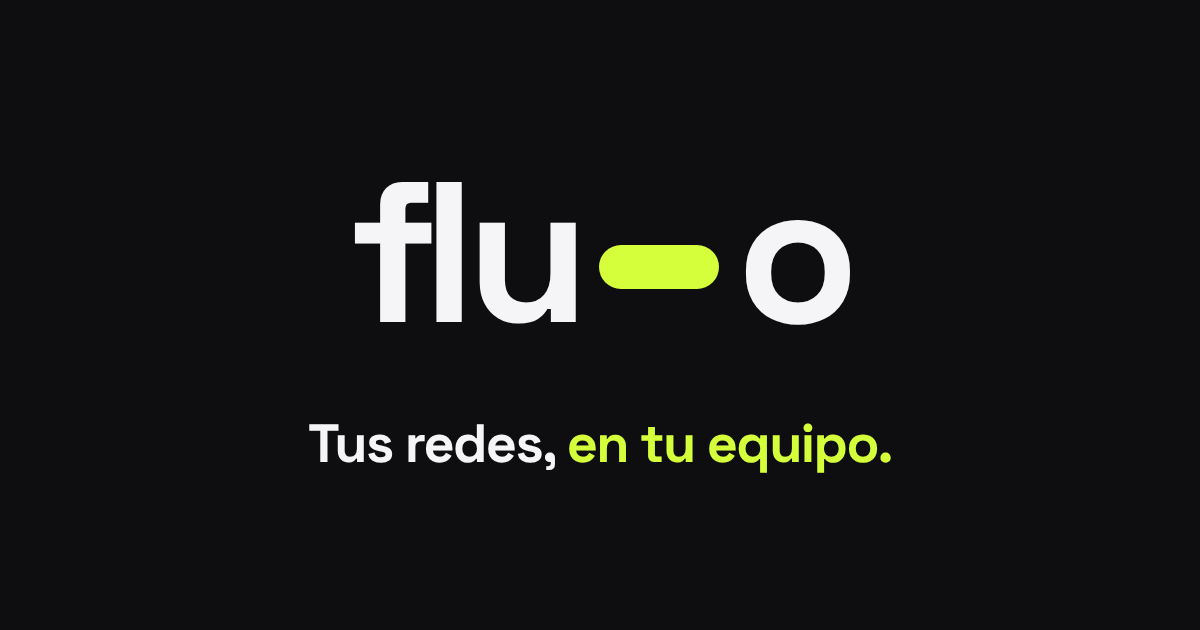
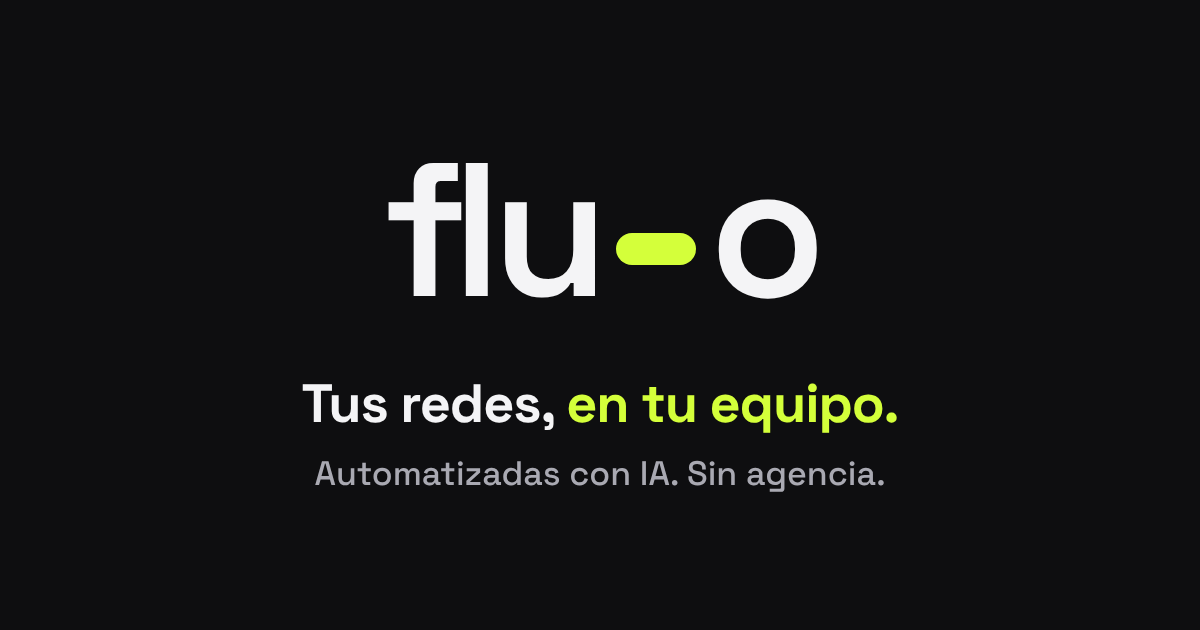
Web: enfoque en sistemas de IA (portada, caso de éxito antes/ahora, agencia vs flu–o, imagen al compartir)
Claude-Session: https://claude.ai/code/session_01GzdQ3RYke6gHzhkWUUZSNy

Changed region(s): [[0.2467, 0.6032, 0.74, 0.7841], [0.2775, 0.2413, 0.7092, 0.5127]]

diff --git a/index.html b/index.html
@@ -3,23 +3,23 @@
 <head>
 <meta charset="utf-8">
 <meta name="viewport" content="width=device-width, initial-scale=1">
-<title>flu–o · Tus redes, en tu equipo</title>
-<meta name="description" content="Implantamos un sistema de contenido con IA y formamos a tu equipo para que lleve vuestras redes sociales: Instagram, Facebook y LinkedIn. Sin agencias. Sin cuotas mensuales.">
+<title>flu–o · Tus redes automatizadas con IA, en tu equipo</title>
+<meta name="description" content="Montamos en tu empresa un sistema con IA que prepara las publicaciones de Instagram, Facebook y LinkedIn, y dejamos a tu equipo funcionando con él. Sin agencias. Sin cuotas mensuales.">
 <meta name="theme-color" content="#0E0E10">
 <link rel="icon" href="assets/favicon.svg" type="image/svg+xml">
 <link rel="apple-touch-icon" href="assets/apple-touch-icon.png">
 <meta property="og:type" content="website">
 <meta property="og:url" content="https://fluo-form.vercel.app/">
 <meta property="og:site_name" content="flu–o">
-<meta property="og:image" content="https://fluo-form.vercel.app/assets/og-image.png">
+<meta property="og:image" content="https://fluo-form.vercel.app/assets/og-image.png?v=2">
 <meta property="og:image:width" content="1200">
 <meta property="og:image:height" content="630">
 <meta name="twitter:card" content="summary_large_image">
-<meta name="twitter:image" content="https://fluo-form.vercel.app/assets/og-image.png">
-<meta property="og:title" content="flu–o · Tus redes, en tu equipo">
-<meta property="og:description" content="Formación en 4 semanas. Habilidad para siempre.">
+<meta name="twitter:image" content="https://fluo-form.vercel.app/assets/og-image.png?v=2">
+<meta property="og:title" content="flu–o · Tus redes automatizadas con IA, en tu equipo">
+<meta property="og:description" content="Montamos un sistema con IA que prepara las publicaciones de tu empresa. Tu equipo solo las revisa y las publica. Sin agencia.">
 <link rel="preload" href="fonts/space-grotesk-latin-700-normal.woff2" as="font" type="font/woff2" crossorigin>
-<link rel="stylesheet" href="styles.css?v=14">
+<link rel="stylesheet" href="styles.css?v=16">
 </head>
 <body>
 
@@ -43,12 +43,13 @@
   <div class="hero-inner">
 
     <div class="hero-biglogo" aria-hidden="true">
-      <span class="bl-flu">flu</span><span class="bl-pill"></span><span class="bl-o">o</span>
+      <span class="bl-word"><span class="bl-flu">flu</span><span class="bl-pill"></span><span class="bl-o">o</span></span>
+      <span class="bl-tag">Redes automatizadas con <b>IA</b>, en tu equipo.</span>
     </div>
 
     <div class="hero-grid">
       <div class="hero-copy">
-        <p class="eyebrow h-eyebrow">Formación con IA para empresas</p>
+        <p class="eyebrow h-eyebrow">Sistemas de IA para empresas</p>
         <h1 class="hero-title">
           <span class="line"><span class="line-in">Tus redes,</span></span>
           <span class="line"><span class="line-in">en tu <em>equipo.</em></span></span>
@@ -62,7 +63,7 @@
           </div>
           <p class="h-social-txt">Instagram · Facebook · LinkedIn</p>
         </div>
-        <p class="hero-sub">Sin agencias. Sin cuotas mensuales. <strong>Con IA.</strong></p>
+        <p class="hero-sub">Un sistema con IA prepara las publicaciones de tu empresa. Tu equipo solo las revisa y las publica. <strong>Sin agencia.</strong></p>
 
         <div class="h-final">
           <div class="h-ctas">
@@ -71,7 +72,7 @@
           </div>
           <ul class="h-chips">
             <li><b>&lt; 3 h</b><span>a la semana para publicar</span></li>
-            <li><b>4</b><span>semanas de formación</span></li>
+            <li><b>4</b><span>semanas y queda funcionando</span></li>
             <li><b>0 €</b><span>de cuota mensual</span></li>
           </ul>
         </div>
@@ -88,7 +89,7 @@
             </div>
             <div class="ig-head">
               <img class="ig-avatar" src="assets/ig/perfil.jpg" alt="">
-              <div class="ig-id"><b>flu–o</b><span>Formación con IA para empresas</span></div>
+              <div class="ig-id"><b>flu–o</b><span>Sistemas de IA para empresas</span></div>
             </div>
             <div class="ig-bio">
               <p>Tus redes, en tu equipo.<br>Sin agencias. Sin cuotas mensuales.</p>
@@ -138,10 +139,10 @@
       <div class="vs-card vs-new reveal">
         <p class="vs-label">Con flu<span class="pill"></span>o</p>
         <ul>
-          <li>Un pago único</li>
-          <li>Tu equipo, que es quien mejor conoce el negocio</li>
-          <li>El sistema se queda en tu empresa</li>
-          <li>Publicáis cuando queréis, a vuestra velocidad</li>
+          <li>Te montamos un sistema de IA, pago único</li>
+          <li>La IA crea los posts con vuestra imagen</li>
+          <li>Tu equipo solo los revisa y publica</li>
+          <li>El sistema de IA se queda en tu empresa</li>
         </ul>
       </div>
     </div>
@@ -215,7 +216,7 @@
 <section class="section incl" id="incluye">
   <div class="wrap">
     <p class="eyebrow reveal">Qué incluye</p>
-    <h2 class="h2 reveal">Un pago, un sistema que funciona y un equipo que sabe ponerlo en práctica.</h2>
+    <h2 class="h2 reveal">Un pago, un sistema de IA que funciona y un equipo que sabe ponerlo en práctica.</h2>
     <div class="bento">
       <div class="b-card b-big reveal">
         <span class="b-n">20 h</span>
@@ -247,13 +248,21 @@
 <section class="section cases" id="casos">
   <div class="wrap">
     <p class="eyebrow reveal">Casos de éxito</p>
-    <h2 class="h2 reveal">Mismo negocio. <em>Otra imagen.</em></h2>
+    <h2 class="h2 reveal">Antes, un dolor de cabeza. <em>Ahora, un sistema.</em></h2>
+    <p class="lead cases-lead reveal">Lo que cambia no es solo cómo se ve el Instagram. Es que deja de ser un problema dentro de la empresa.</p>
     <div class="case-tabs reveal" role="tablist">
       <button class="case-tab is-active" role="tab" id="tab-hidrogest" aria-controls="case-hidrogest" aria-selected="true">Hidrogest</button>
       <button class="case-tab" role="tab" id="tab-criscolor" aria-controls="case-criscolor" aria-selected="false">Criscolor</button>
     </div>
     <div class="cases-body reveal">
     <div class="case is-active" id="case-hidrogest" role="tabpanel" aria-labelledby="tab-hidrogest">
+      <div class="case-story">
+        <div class="cs-col cs-a"><span class="cs-tag">Antes</span><p>El Instagram dependía de que alguien sacara un rato entre pedidos. Se publicaba poco, cada post salía distinto y nadie se encargaba de verdad.</p></div>
+        <div class="cs-col cs-d"><span class="cs-tag">Ahora</span><p>Tienen un sistema con IA hecho con su imagen. Su equipo saca las publicaciones en minutos y ya no depende de que alguien tenga tiempo.</p></div>
+      </div>
+      <p class="cs-label">Cómo lo hacen hoy</p>
+      <ol class="cs-steps"><li><b>1</b><span>Hacen la foto o el vídeo del producto</span></li><li><b>2</b><span>La IA prepara la publicación con su imagen</span></li><li><b>3</b><span>La revisan y la publican en minutos</span></li></ol>
+      <p class="cs-label cs-label-res">El resultado</p>
       <div class="case-grid">
         <aside class="case-brand" aria-label="Identidad de Hidrogest">
           <div class="cb-logo"><img src="assets/casos/hidrogest-logo.png" alt="Logo Hidrogest"></div>
@@ -268,6 +277,13 @@
       <div class="cpairs"><figure class="cpair"><div class="cpair-imgs"><div class="cp-a"><img src="assets/casos/hidrogest-p1-antes.jpg" alt="iBOT PRO VISION NG antes" loading="lazy"><span>Antes</span></div><i class="cp-arrow"><svg viewBox="0 0 24 24" fill="none" stroke="currentColor" stroke-width="2.6" stroke-linecap="round" stroke-linejoin="round"><path d="M5 12h14M13 6l6 6-6 6"/></svg></i><div class="cp-d"><img src="assets/casos/hidrogest-p1-despues.jpg" alt="iBOT PRO VISION NG después" loading="lazy"><span>Después</span></div></div><figcaption>iBOT PRO VISION NG</figcaption></figure><figure class="cpair"><div class="cpair-imgs"><div class="cp-a"><img src="assets/casos/hidrogest-p2-antes.jpg" alt="iBOT C800 antes" loading="lazy"><span>Antes</span></div><i class="cp-arrow"><svg viewBox="0 0 24 24" fill="none" stroke="currentColor" stroke-width="2.6" stroke-linecap="round" stroke-linejoin="round"><path d="M5 12h14M13 6l6 6-6 6"/></svg></i><div class="cp-d"><img src="assets/casos/hidrogest-p2-despues.jpg" alt="iBOT C800 después" loading="lazy"><span>Después</span></div></div><figcaption>iBOT C800</figcaption></figure><figure class="cpair"><div class="cpair-imgs"><div class="cp-a"><img src="assets/casos/hidrogest-p3-antes.jpg" alt="Rain Bird ESP-BAT-BT antes" loading="lazy"><span>Antes</span></div><i class="cp-arrow"><svg viewBox="0 0 24 24" fill="none" stroke="currentColor" stroke-width="2.6" stroke-linecap="round" stroke-linejoin="round"><path d="M5 12h14M13 6l6 6-6 6"/></svg></i><div class="cp-d"><img src="assets/casos/hidrogest-p3-despues.jpg" alt="Rain Bird ESP-BAT-BT después" loading="lazy"><span>Después</span></div></div><figcaption>Rain Bird ESP-BAT-BT</figcaption></figure><figure class="cpair"><div class="cpair-imgs"><div class="cp-a"><img src="assets/casos/hidrogest-p4-antes.jpg" alt="Ósmosis inversa antes" loading="lazy"><span>Antes</span></div><i class="cp-arrow"><svg viewBox="0 0 24 24" fill="none" stroke="currentColor" stroke-width="2.6" stroke-linecap="round" stroke-linejoin="round"><path d="M5 12h14M13 6l6 6-6 6"/></svg></i><div class="cp-d"><img src="assets/casos/hidrogest-p4-despues.jpg" alt="Ósmosis inversa después" loading="lazy"><span>Después</span></div></div><figcaption>Ósmosis inversa</figcaption></figure></div>
     </div>
     <div class="case" id="case-criscolor" role="tabpanel" aria-labelledby="tab-criscolor" hidden>
+      <div class="case-story">
+        <div class="cs-col cs-a"><span class="cs-tag">Antes</span><p>Miles de referencias y un Instagram parado. Enseñar el catálogo parecía un trabajo a tiempo completo que nadie tenía.</p></div>
+        <div class="cs-col cs-d"><span class="cs-tag">Ahora</span><p>El mismo sistema, con su imagen. El equipo convierte cualquier producto en una publicación en minutos, sin agencia y sin perder horas.</p></div>
+      </div>
+      <p class="cs-label">Cómo lo hacen hoy</p>
+      <ol class="cs-steps"><li><b>1</b><span>Hacen la foto o el vídeo del producto</span></li><li><b>2</b><span>La IA prepara la publicación con su imagen</span></li><li><b>3</b><span>La revisan y la publican en minutos</span></li></ol>
+      <p class="cs-label cs-label-res">El resultado</p>
       <div class="case-grid">
         <aside class="case-brand" aria-label="Identidad de Criscolor">
           <div class="cb-logo"><img src="assets/casos/criscolor-logo.png" alt="Logo Criscolor"></div>
@@ -421,13 +437,13 @@
 <footer class="footer">
   <div class="wrap footer-inner">
     <a href="#top" class="nav-logo">flu<span class="pill"></span>o</a>
-    <p>Formación con IA para empresas · Valencia · <a href="privacidad.html">Privacidad</a></p>
+    <p>Sistemas de IA para empresas · Valencia · <a href="privacidad.html">Privacidad</a></p>
     <span><a href="mailto:fluoequipos@gmail.com">fluoequipos@gmail.com</a> · <a href="https://instagram.com/heyflu.o" target="_blank" rel="noopener">@heyflu.o</a></span>
   </div>
 </footer>
 
 <script src="vendor/gsap.min.js"></script>
 <script src="vendor/ScrollTrigger.min.js"></script>
-<script src="main.js?v=11"></script>
+<script src="main.js?v=12"></script>
 </body>
 </html>

diff --git a/styles.css b/styles.css
@@ -75,6 +75,10 @@ em{font-style:normal;color:var(--green)}
 .hero-inner{position:relative;height:100%;width:100%}
 .hero-biglogo{position:absolute;inset:0;display:flex;align-items:center;justify-content:center;font-family:var(--display);font-weight:600;font-size:clamp(120px,24vw,360px);letter-spacing:-.05em;line-height:1;z-index:3;pointer-events:none;will-change:transform,opacity}
 .bl-flu,.bl-o{display:inline-block}
+.hero-biglogo{flex-direction:column;gap:clamp(20px,3vw,40px)}
+.bl-word{display:flex;align-items:center}
+.bl-tag{font-family:var(--display);font-weight:500;font-size:clamp(20px,2.2vw,32px);letter-spacing:-.01em;color:#D9D9DE}
+.bl-tag b{color:var(--green);font-weight:700}
 .bl-pill{display:inline-block;width:.42em;height:.17em;border-radius:999px;background:var(--green);margin:0 .07em 0 .09em;position:relative;top:.1em}
 
 .hero-grid{position:relative;z-index:2;height:100%;max-width:1240px;margin:0 auto;padding:96px var(--gutter) 40px;display:grid;grid-template-columns:1.08fr .92fr;align-items:center;gap:40px}
@@ -86,7 +90,7 @@ em{font-style:normal;color:var(--green)}
 .h-icons{display:flex;gap:12px}
 .h-icons img{width:52px;height:52px}
 .h-social-txt{margin:0;font-family:var(--display);font-weight:500;font-size:18px;color:var(--mute)}
-.hero-sub{font-family:var(--display);font-size:clamp(20px,2vw,26px);font-weight:500;letter-spacing:-.02em;color:#D9D9DE;margin:0 0 36px}
+.hero-sub{font-family:var(--display);font-size:clamp(18px,1.7vw,22px);font-weight:500;letter-spacing:-.01em;line-height:1.4;color:#D9D9DE;margin:0 0 36px;max-width:36ch}
 .hero-sub strong{color:var(--green);font-weight:600}
 .h-ctas{display:flex;gap:12px;flex-wrap:wrap;margin-bottom:36px}
 .h-chips{list-style:none;margin:0;padding:0;display:flex;gap:12px;flex-wrap:wrap}
@@ -370,6 +374,28 @@ em{font-style:normal;color:var(--green)}
   .cph{gap:12px}
   .cph-tag{font-size:11px;padding:6px 12px}
   .cpairs{grid-template-columns:1fr;gap:12px}
+}
+
+
+/* casos · historia */
+.cases-lead{max-width:640px;color:var(--mute);margin:-8px 0 clamp(32px,4vw,48px)}
+.case-story{display:grid;grid-template-columns:1fr 1fr;gap:16px}
+.cs-col{border-radius:24px;padding:clamp(22px,3vw,32px);border:1px solid var(--line)}
+.cs-a{background:var(--ink-2)}
+.cs-d{background:var(--green);color:var(--black);border-color:var(--green)}
+.cs-tag{display:inline-block;font-family:var(--display);font-size:13px;font-weight:700;letter-spacing:.14em;text-transform:uppercase;padding:7px 14px;border-radius:999px;margin-bottom:16px}
+.cs-a .cs-tag{background:#26262B;color:var(--mute)}
+.cs-d .cs-tag{background:var(--black);color:var(--green)}
+.cs-col p{margin:0;font-family:var(--display);font-weight:500;font-size:clamp(19px,1.9vw,23px);line-height:1.35}
+.cs-a p{color:#D6D6DC}
+.cs-label{font-family:var(--display);font-size:13px;font-weight:600;letter-spacing:.16em;text-transform:uppercase;color:var(--mute);margin:clamp(36px,4vw,52px) 0 16px}
+.cs-label-res{margin-bottom:clamp(28px,3vw,40px)}
+.cs-steps{list-style:none;margin:0;padding:0;display:grid;grid-template-columns:repeat(3,1fr);gap:16px}
+.cs-steps li{display:flex;align-items:center;gap:14px;background:var(--ink-2);border:1px solid var(--line);border-radius:20px;padding:18px 20px}
+.cs-steps b{flex:none;width:36px;height:36px;border-radius:50%;background:var(--green);color:var(--black);font-family:var(--display);font-weight:700;display:flex;align-items:center;justify-content:center}
+.cs-steps span{font-family:var(--display);font-weight:600;font-size:16px;line-height:1.3}
+@media (max-width:760px){
+  .case-story,.cs-steps{grid-template-columns:1fr;gap:12px}
 }
 
 /* ============ RESERVA ============ */

diff --git a/main.js b/main.js
@@ -144,6 +144,7 @@
     .to('.bl-pill', { x: '-0.09em', duration: 0.35, ease: 'power2.inOut' }, '-=0.3')
     .to('.bl-pill', { x: '0.09em', duration: 0.4, ease: 'power2.inOut' })
     .to('.bl-pill', { x: 0, duration: 0.6, ease: 'elastic.out(1, 0.55)' })
+    .from('.bl-tag', { y: 16, opacity: 0, duration: 0.7, ease: EASE }, 0.9)
     .from('.scroll-hint', { opacity: 0, y: 12, duration: 0.6, ease: EASE }, '-=0.5');
 
   /* ---------- HERO: 3 desplazamientos ---------- */
